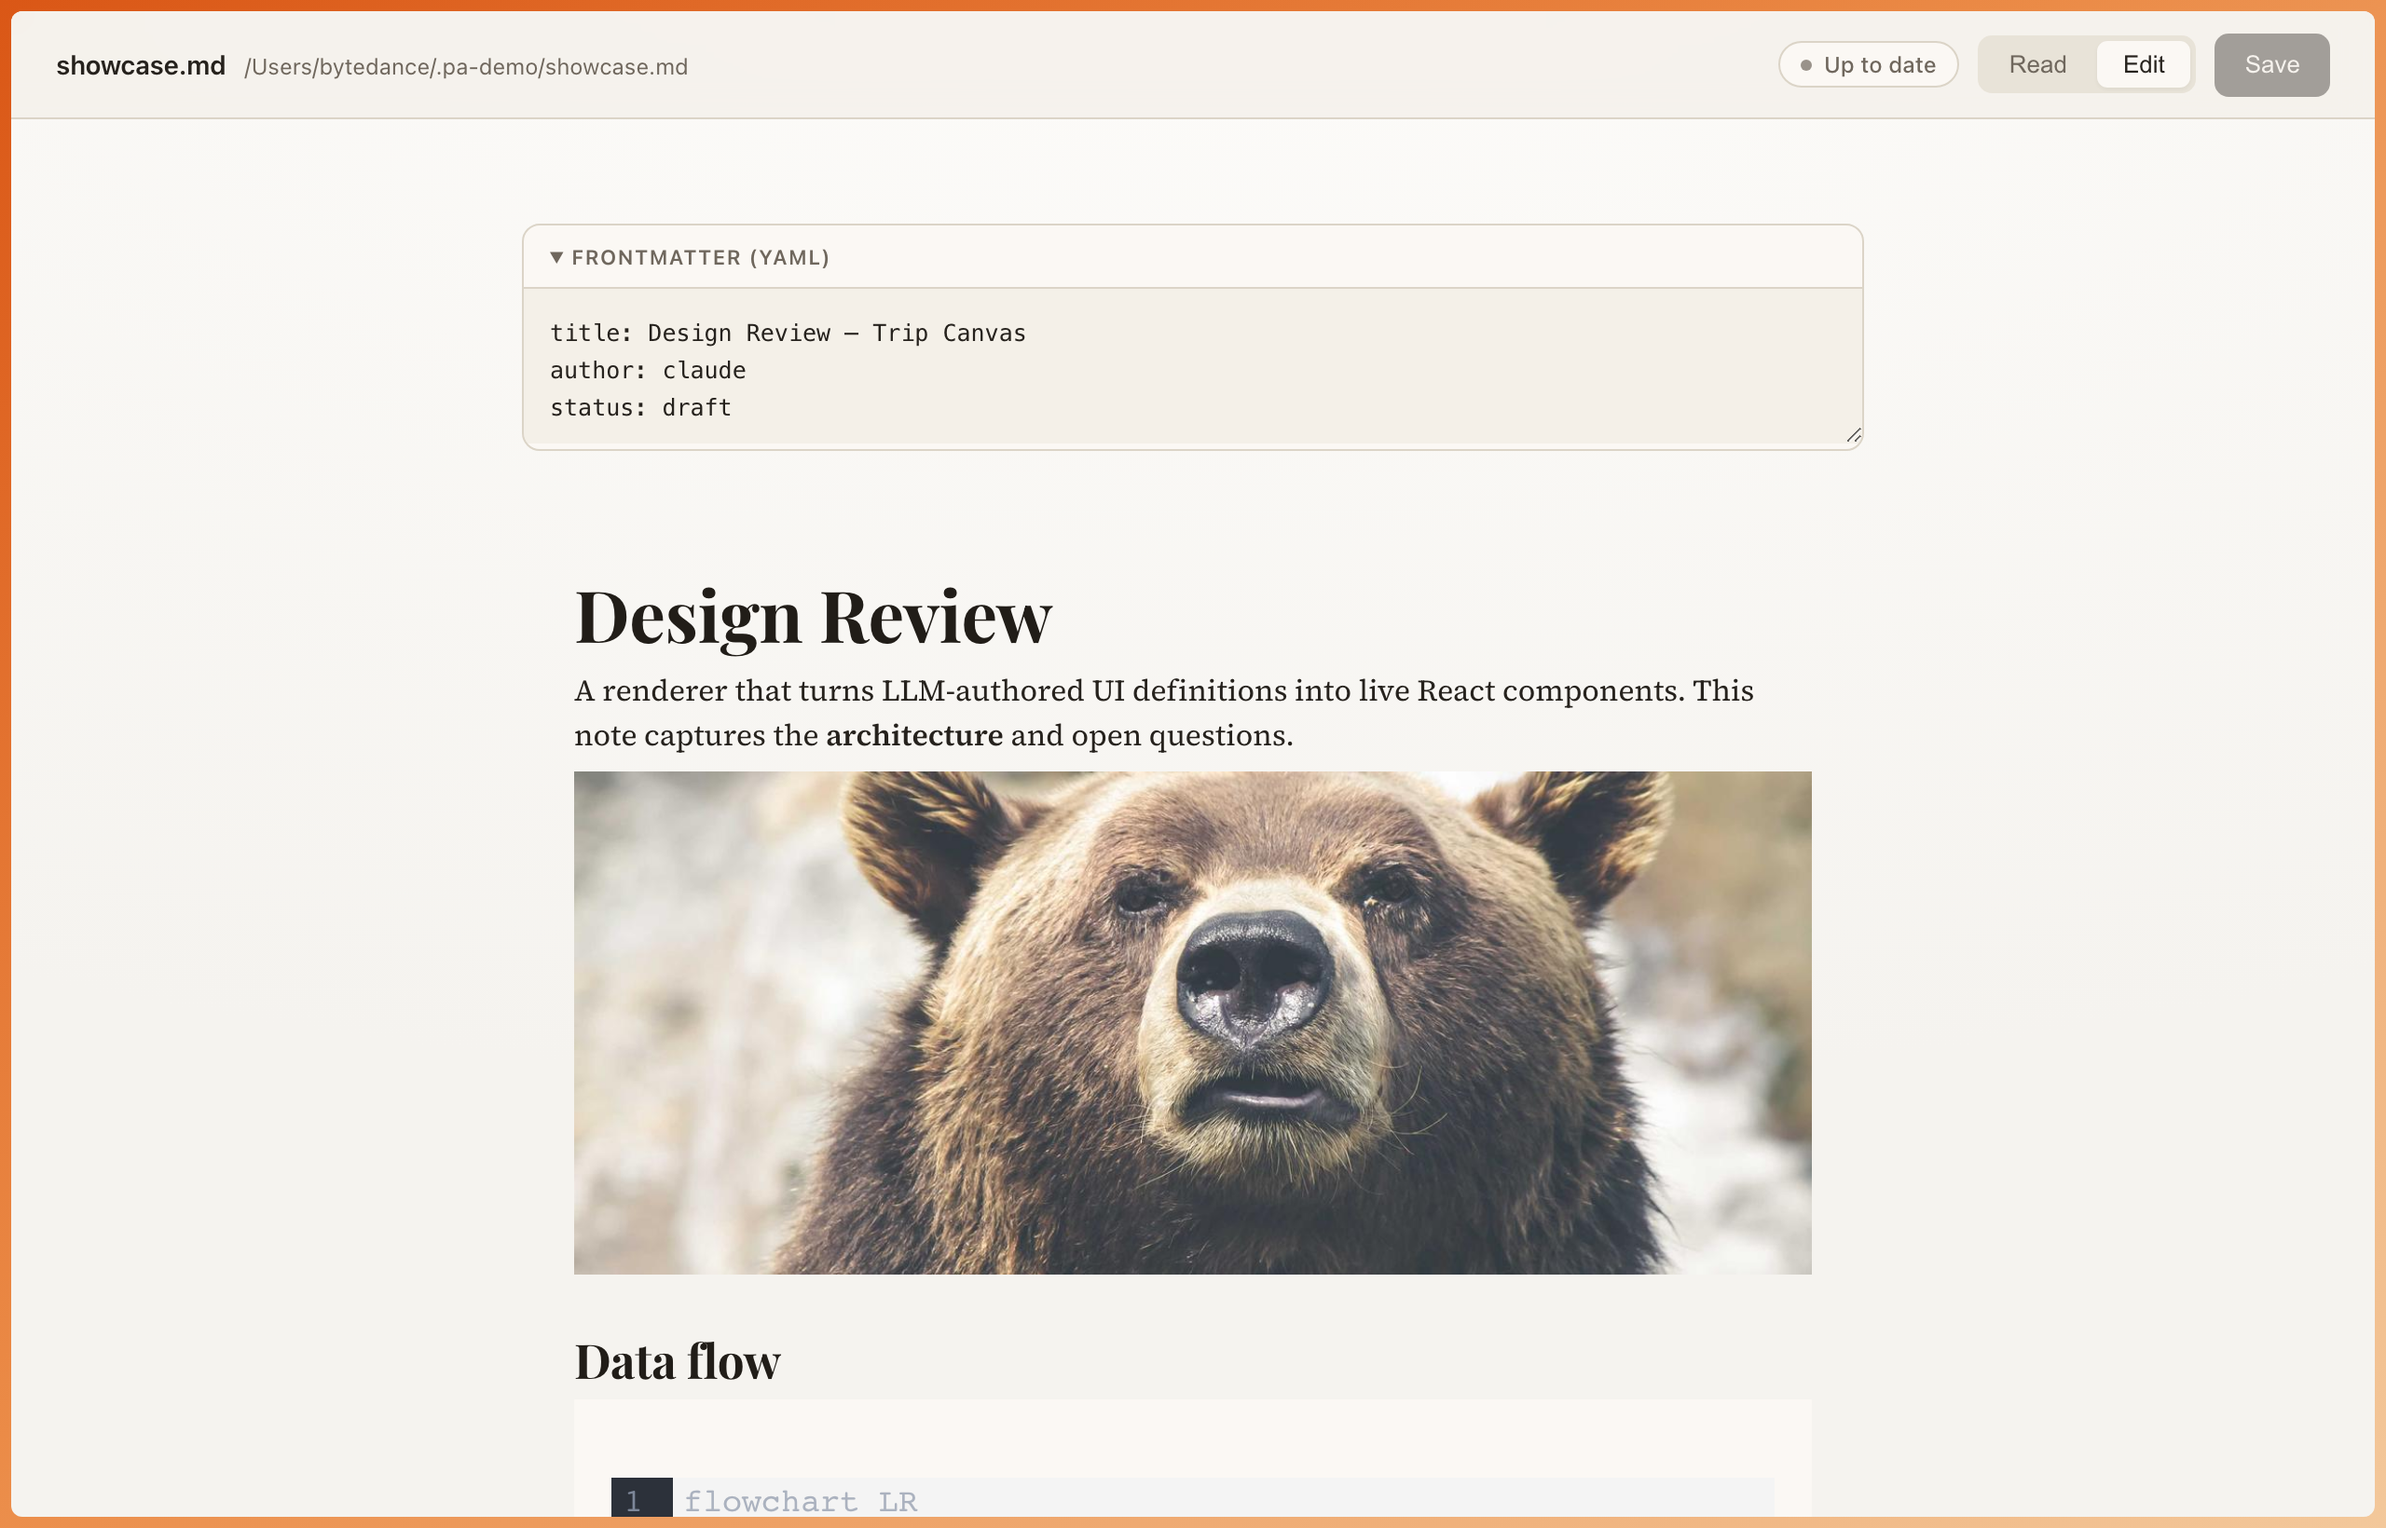
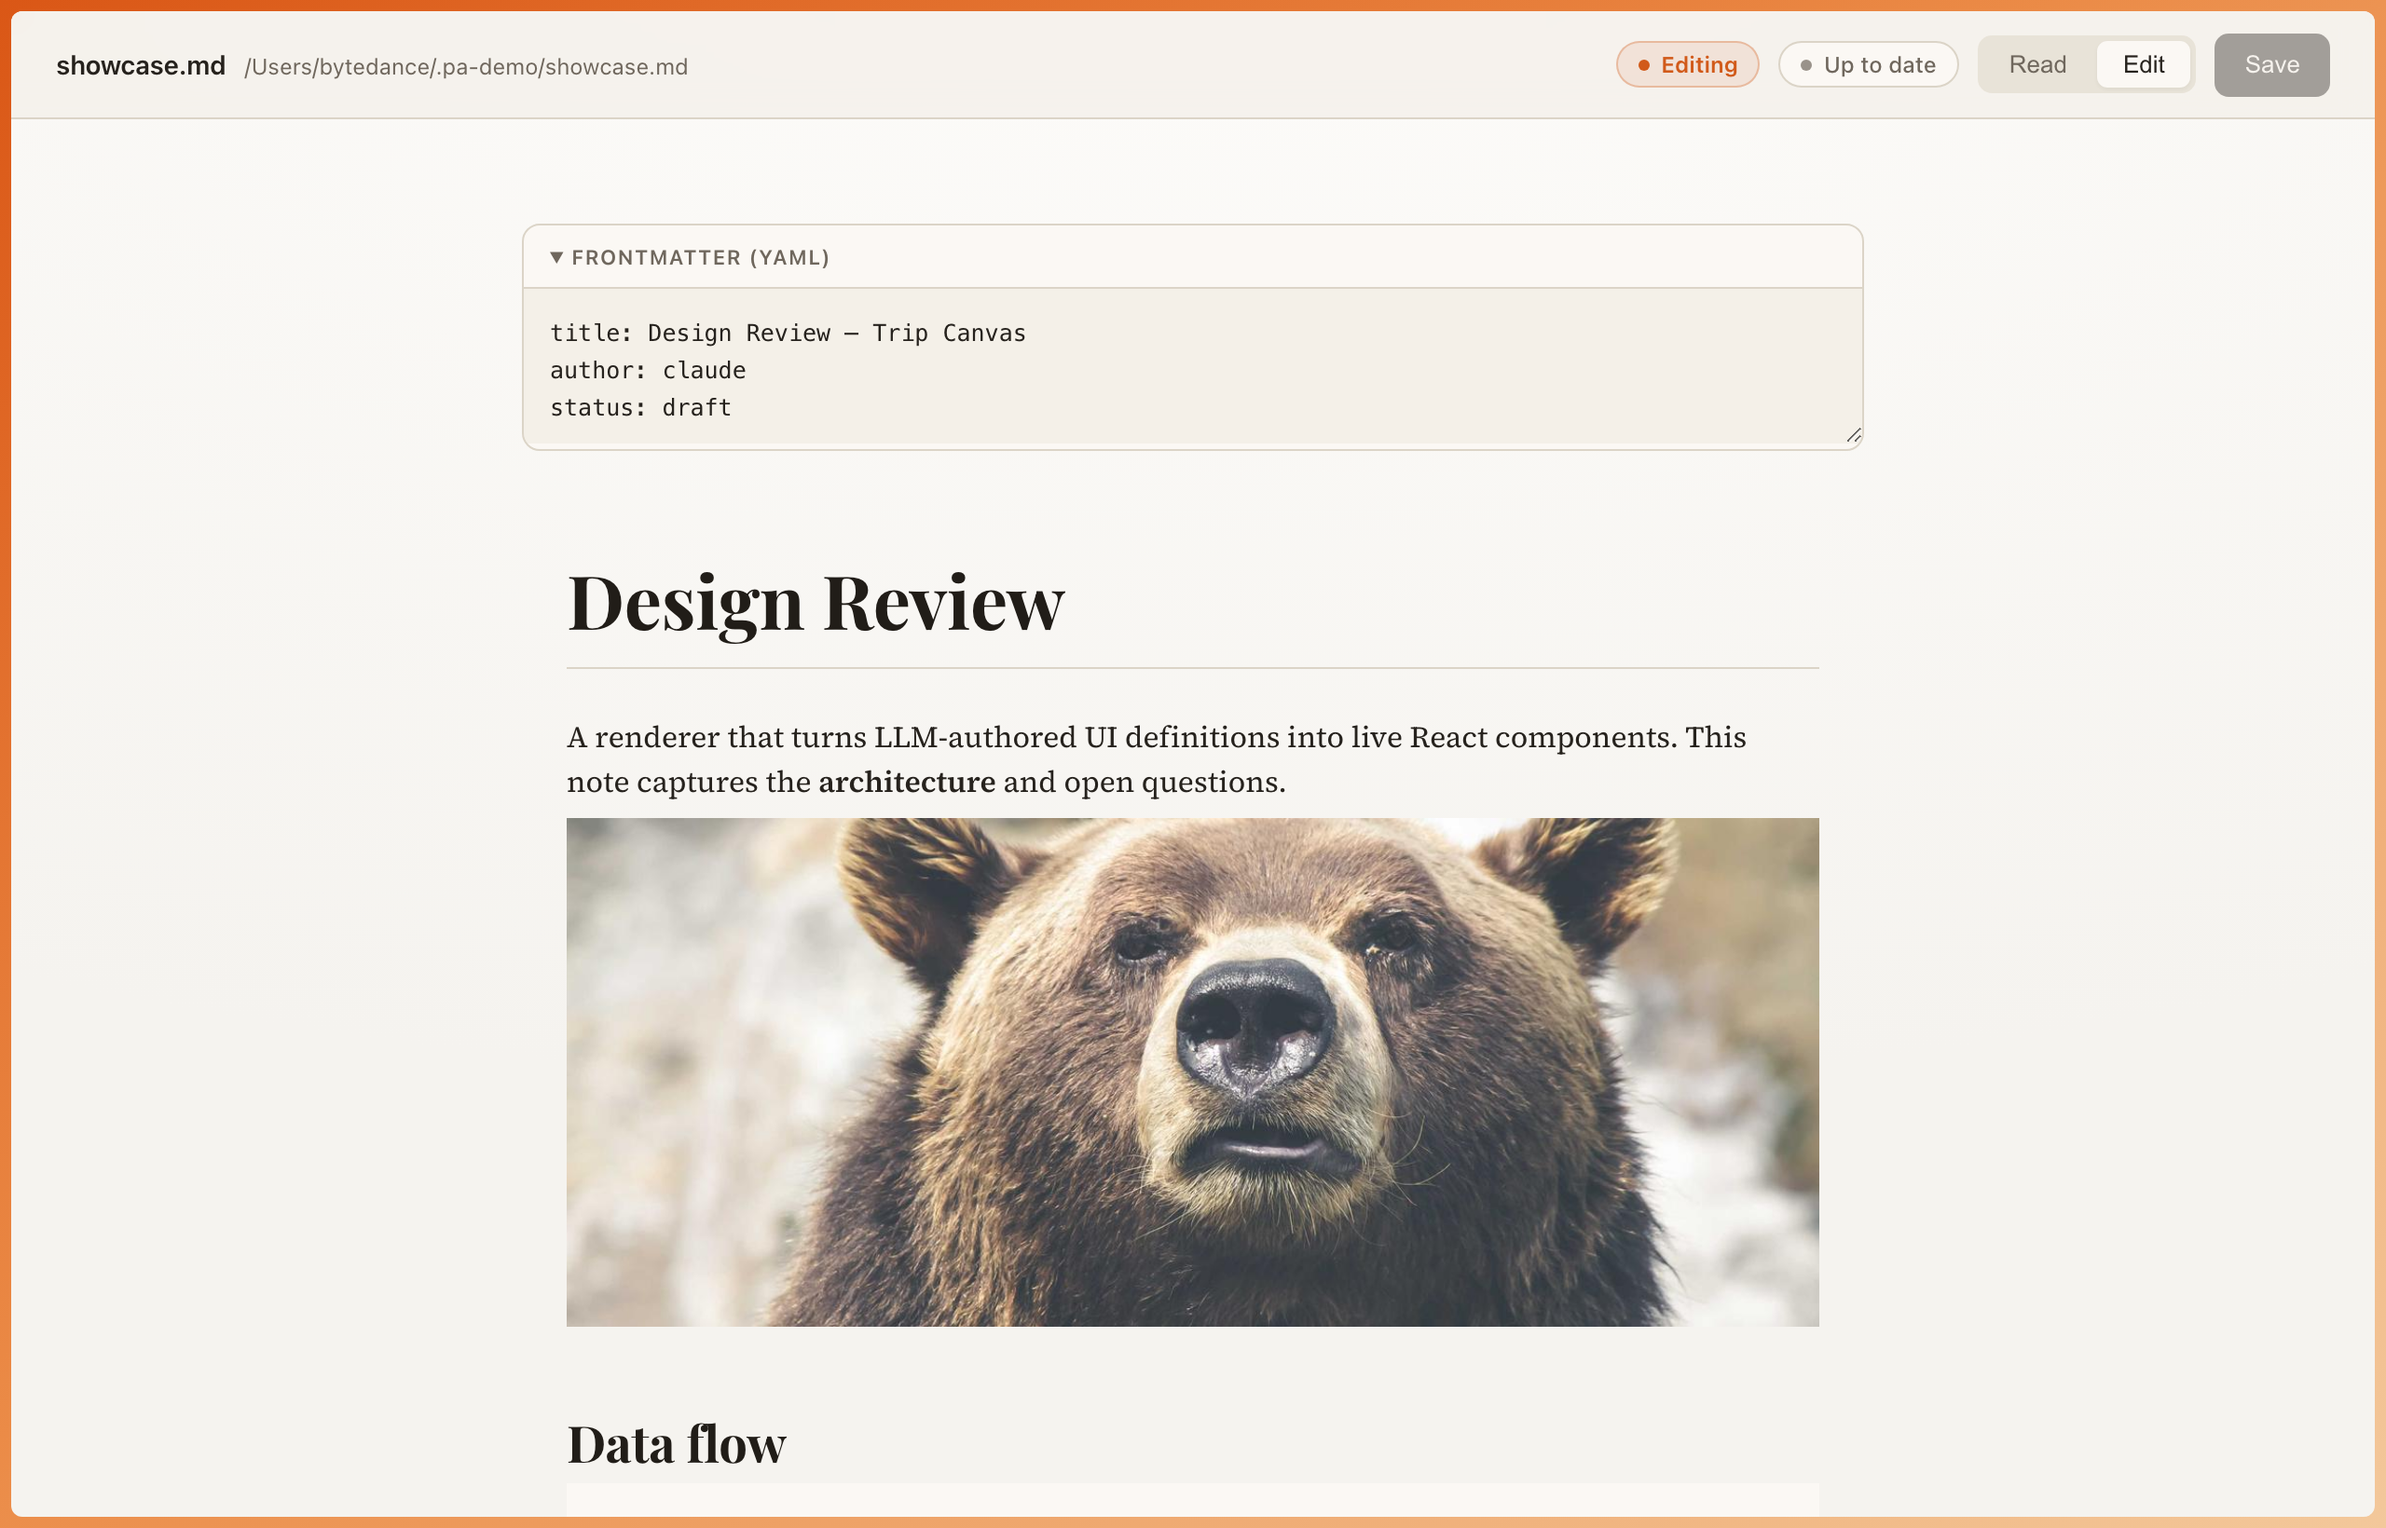
feat(ui): edit mode matches read view + 'Editing' pill
- Editor typography matched to read view: h1 underline rule, heading sizes,
  text inset, underlined terracotta links
- Add an 'Editing' pill in the toolbar shown only in edit mode

Changed region(s): [[0.2188, 0.3732, 0.7812, 0.9018], [0.2188, 0.9329, 0.3438, 0.9951], [0.6875, 0.0311, 0.75, 0.0622]]

diff --git a/src/styles.css b/src/styles.css
@@ -158,6 +158,28 @@ body {
 .status.error { color: hsl(0 60% 45%); border-color: hsl(0 60% 45% / 0.3); background: hsl(0 60% 45% / 0.08); }
 
 /* ---- Segmented tab switch ---- */
+/* "Editing" pill — shown only in edit mode */
+.edit-pill {
+  display: inline-flex;
+  align-items: center;
+  gap: 6px;
+  font-size: 12px;
+  font-weight: 600;
+  padding: 4px 11px;
+  border-radius: 999px;
+  color: hsl(var(--accent));
+  background: hsl(var(--accent) / 0.1);
+  border: 1px solid hsl(var(--accent) / 0.3);
+  white-space: nowrap;
+}
+.edit-pill::before {
+  content: "";
+  width: 6px;
+  height: 6px;
+  border-radius: 999px;
+  background: currentColor;
+}
+
 .mode-switch {
   display: inline-flex;
   gap: 2px;
@@ -434,7 +456,7 @@ body {
   font-size: 17.5px;
   line-height: 1.8;
   color: hsl(var(--foreground));
-  padding: 16px 28px 40px;
+  padding: 8px 24px 40px; /* same text inset as the read view */
 }
 .crepe-host .ProseMirror :is(h1, h2, h3, h4, h5, h6) {
   font-family: var(--font-display);
@@ -443,10 +465,21 @@ body {
   line-height: 1.2;
   color: hsl(var(--heading));
 }
-.crepe-host .ProseMirror h1 { font-size: 2.4rem; }
-.crepe-host .ProseMirror h2 { font-size: 1.6rem; }
-.crepe-host .ProseMirror h3 { font-size: 1.25rem; }
-.crepe-host .ProseMirror a { color: hsl(var(--link)); }
+/* match the read view exactly */
+.crepe-host .ProseMirror h1 {
+  font-size: 2.5rem;
+  margin-bottom: 0.5em;
+  border-bottom: 1px solid hsl(var(--border));
+  padding-bottom: 0.3em;
+}
+.crepe-host .ProseMirror h2 { font-size: 1.7rem; margin-top: 1.6em; }
+.crepe-host .ProseMirror h3 { font-size: 1.3rem; }
+.crepe-host .ProseMirror a {
+  color: hsl(var(--link));
+  text-decoration: underline;
+  text-underline-offset: 2px;
+  text-decoration-thickness: 1px;
+}
 .crepe-host .ProseMirror blockquote {
   border-left: 3px solid hsl(var(--accent) / 0.5);
   color: hsl(var(--muted-foreground));

diff --git a/src/App.tsx b/src/App.tsx
@@ -128,6 +128,7 @@ export function App() {
           <span className="file-path" title={path}>{path}</span>
         </div>
         <div className="toolbar-actions">
+          {mode === "edit" && editable && <span className="edit-pill">Editing</span>}
           {kind === "pdf" ? (
             <span className="status clean">PDF · read-only</span>
           ) : (
